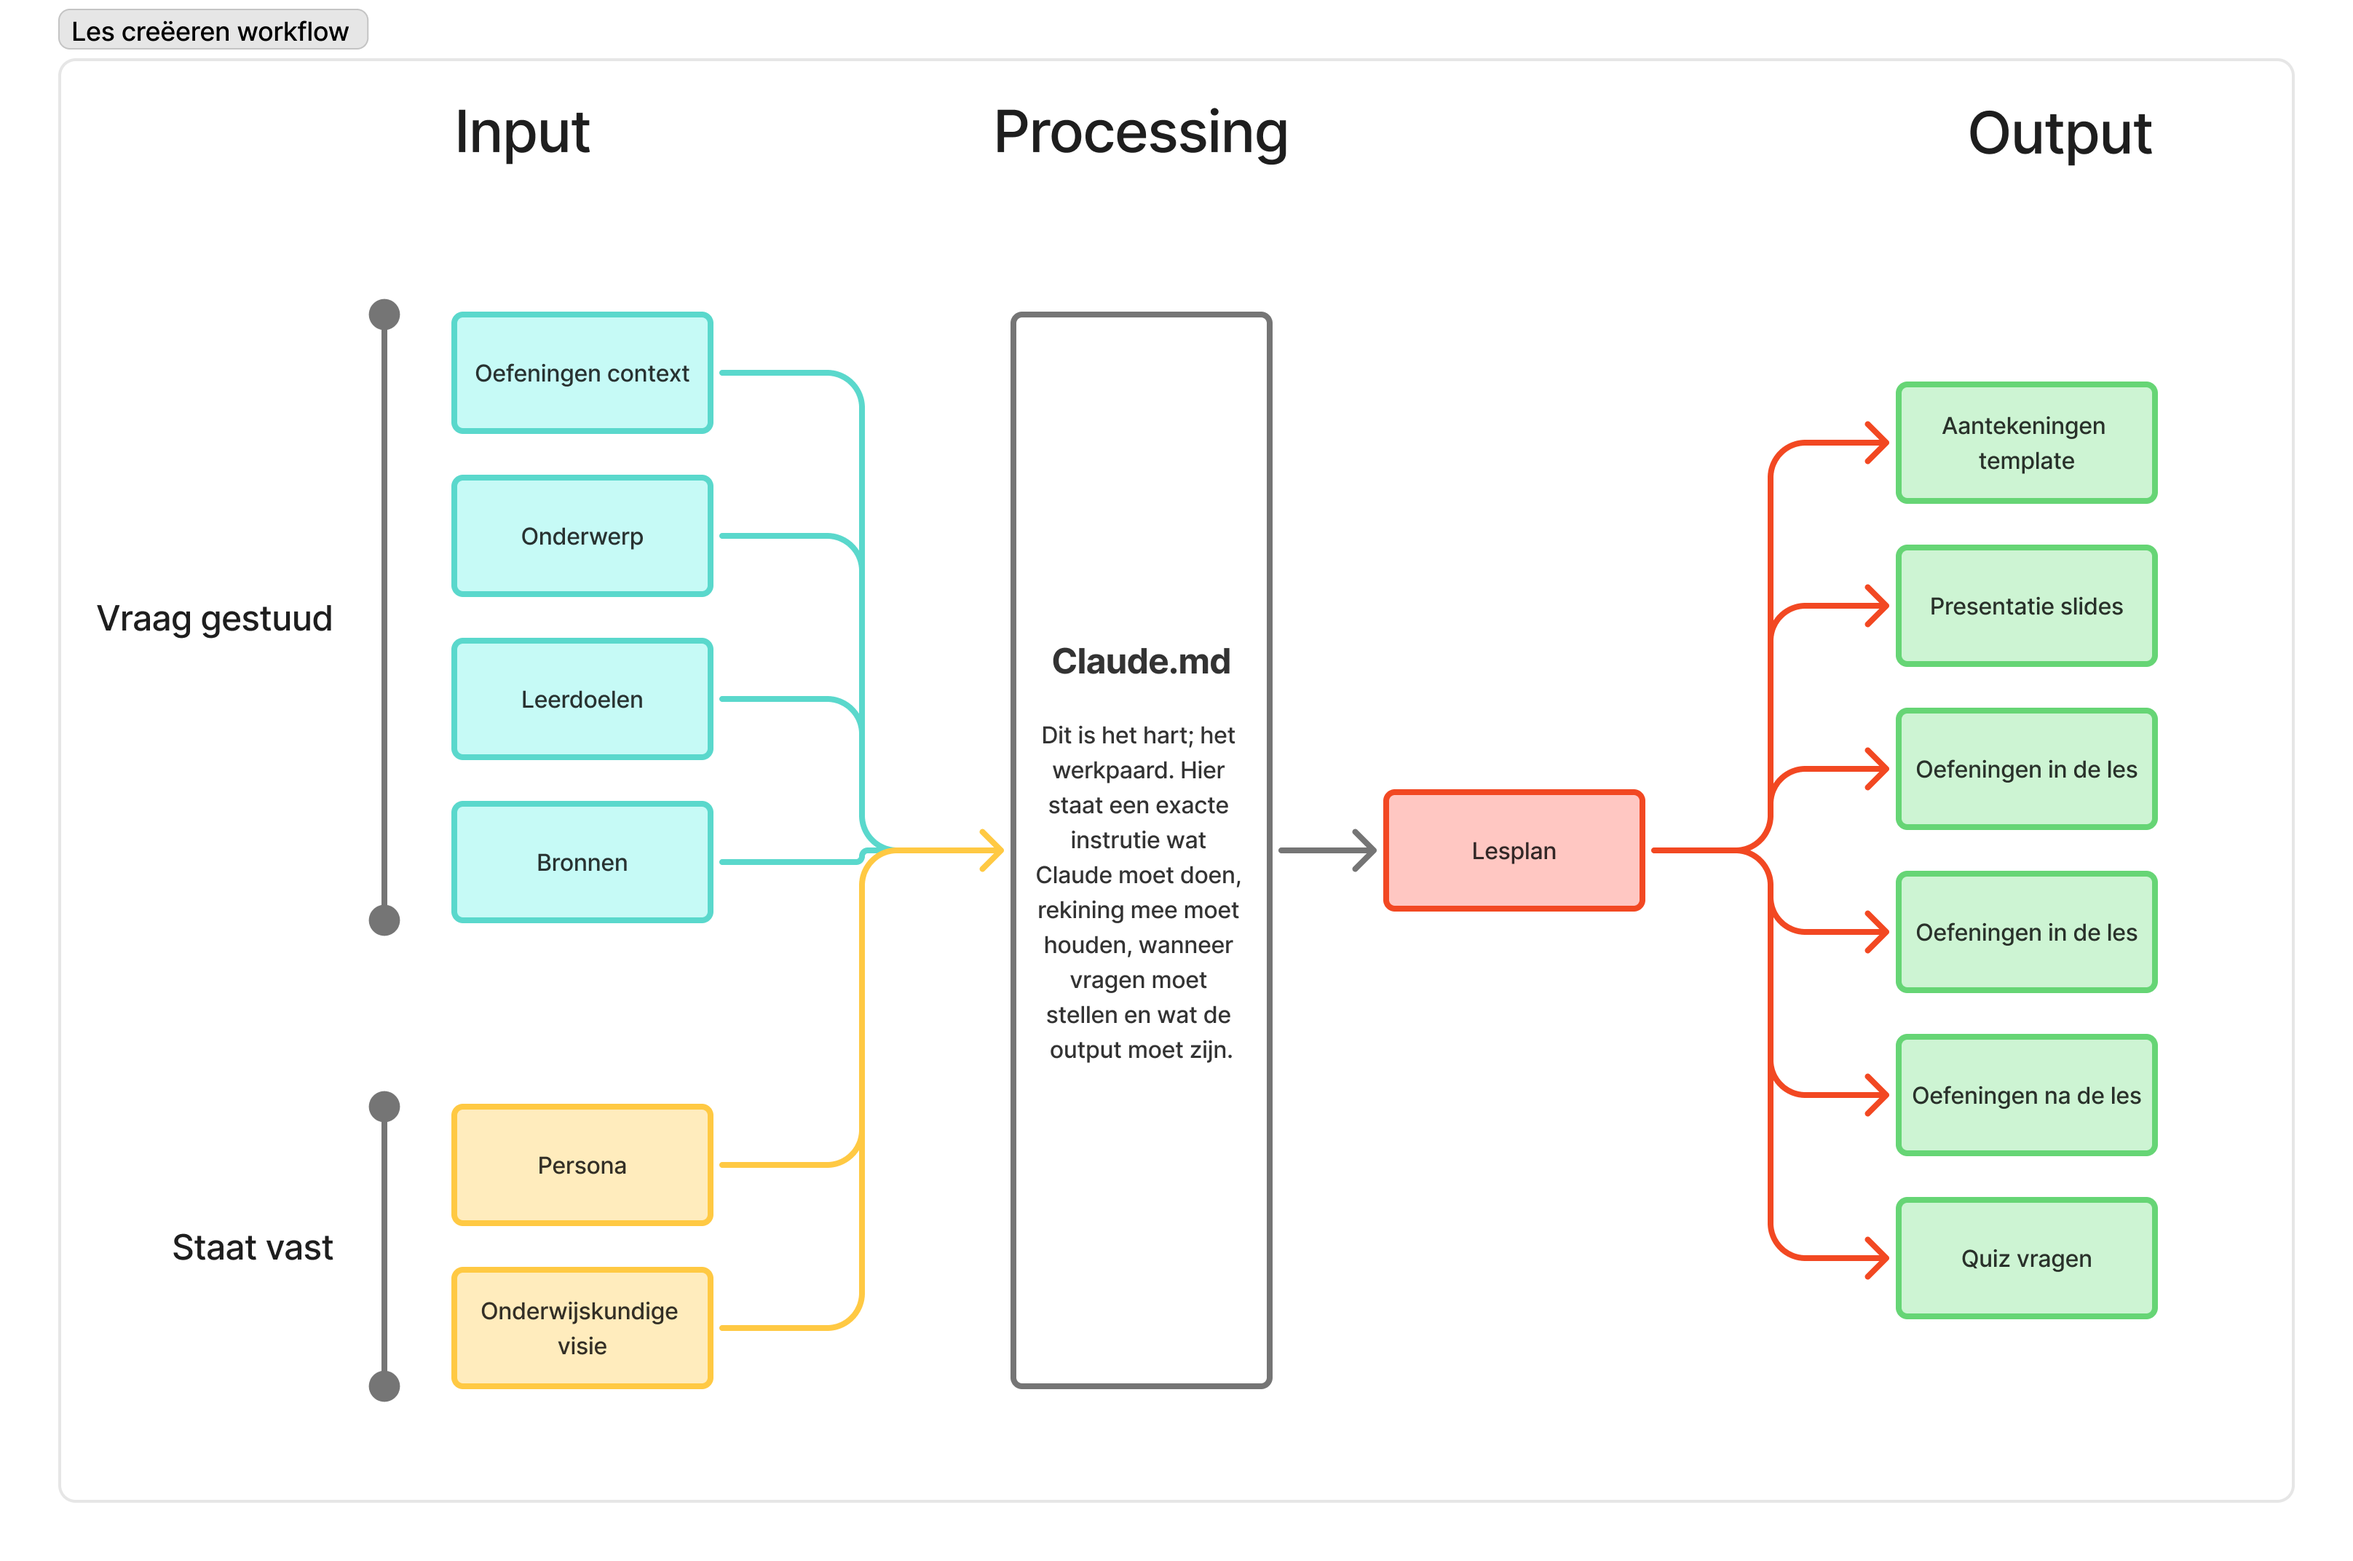
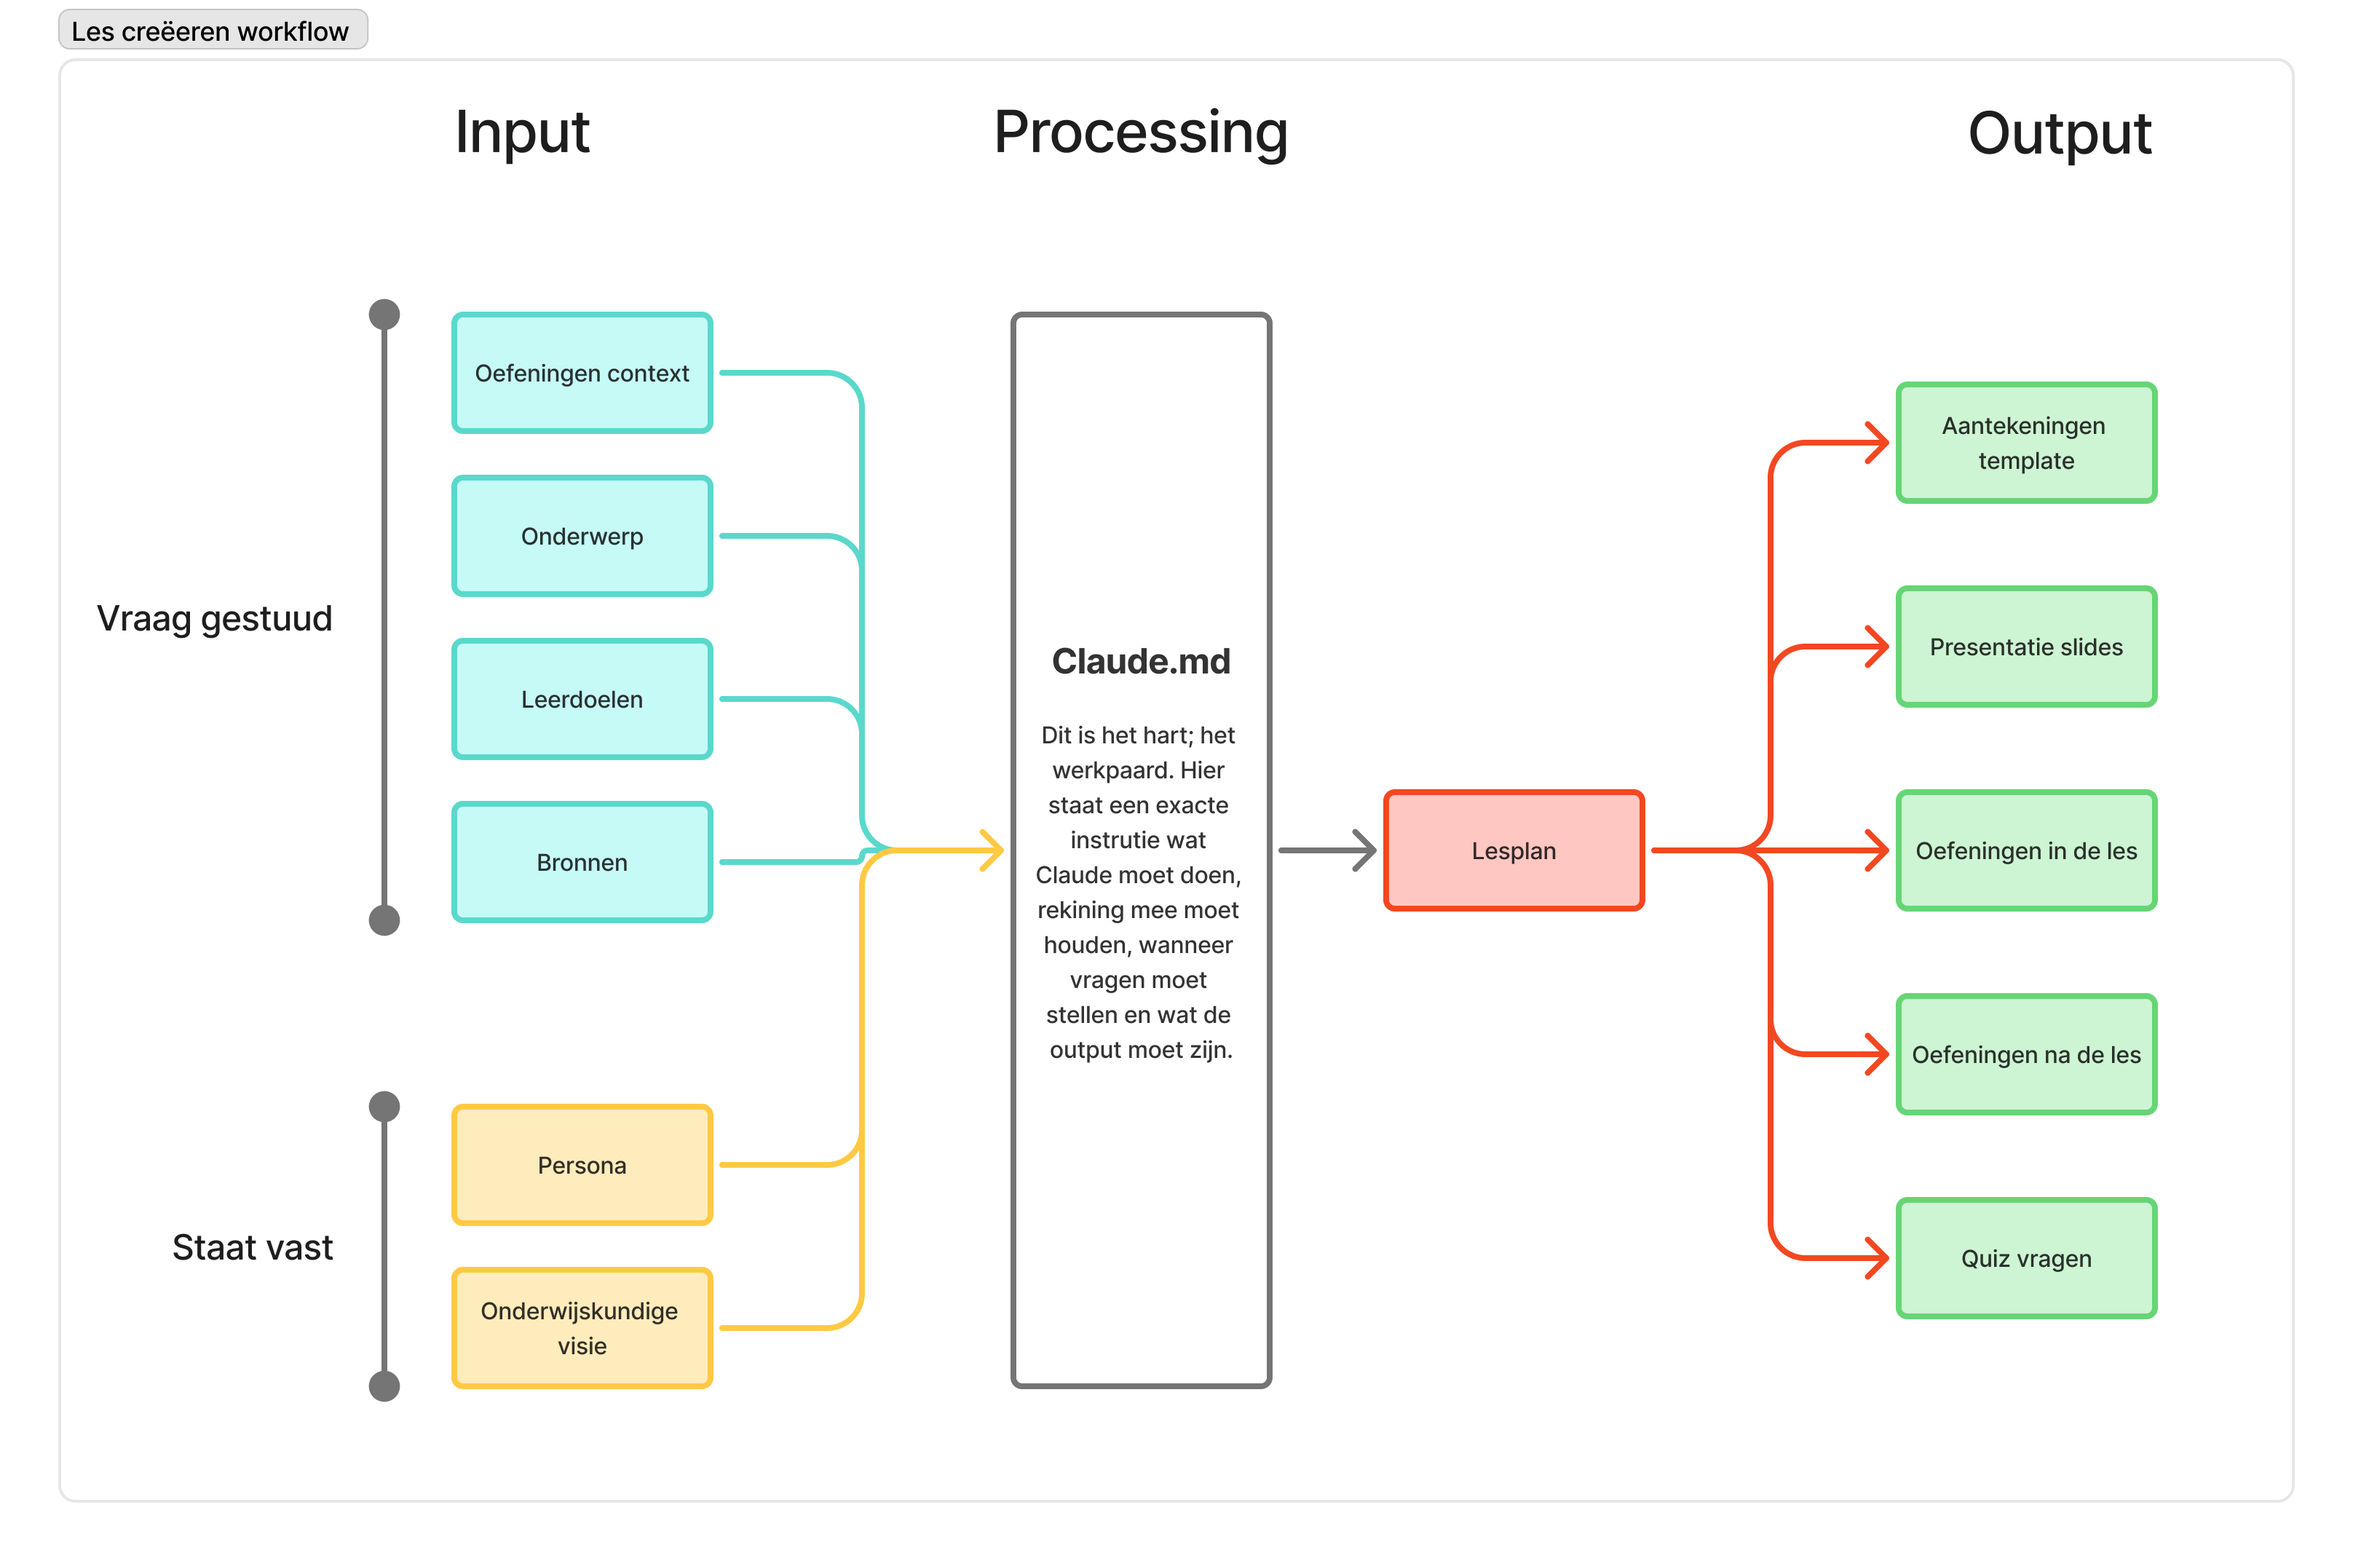
reorganised files so it follows the standards

Changed region(s): [[0.75, 0.3438, 0.9375, 0.75]]

diff --git a/claude.md b/claude.md
@@ -40,7 +40,7 @@ Ask the user:
 > - File paths to documents in this project folder
 > - General references (books, papers) I should be aware of
 >
-> Leave blank to rely only on the educational_context.MD and my general knowledge."
+> Leave blank to rely only on the `.claude/context/educational_context.md` and my general knowledge."
 
 Fetch or read all provided sources before proceeding.
 
@@ -52,9 +52,9 @@ Create a folder: `lessons/<topic-slug>/`
 
 Create the file: `lessons/<topic-slug>/lesson.md`
 
-Structure the lesson following the Bain-inspired principles from `educational_context.MD`.
+Structure the lesson following the Bain-inspired principles from `.claude/context/educational_context.md`.
 
-**Persona-aware design:** Read `persona.md` before writing the lesson plan. For each major section, consider how the three student archetypes (Lars / HAVO, Fatima / MBO, Daan / non-traditional) will experience it. Specifically:
+**Persona-aware design:** Read `.claude/context/persona.md` before writing the lesson plan. For each major section, consider how the three student archetypes (Lars / HAVO, Fatima / MBO, Daan / non-traditional) will experience it. Specifically:
 
 - **Opening:** Choose a problem that feels relevant to Fatima's practical experience AND intriguing enough to engage Daan's curiosity. Add a brief note on how to make it land for Lars too (e.g., a concrete anchor or worked example).
 - **Prior Knowledge Check:** Anticipate that Lars may lack practical reference points, Fatima may have misconceptions from applied shortcuts, and Daan may have gaps in foundational theory.
@@ -159,7 +159,7 @@ Create the file: `lessons/<topic-slug>/quiz.md`
 
 Write exactly **4 quiz questions** students can use to self-assess whether they understood the lesson. The questions are low-stakes and formative — meant to help students identify gaps, not to grade them.
 
-**Persona-aware design:** The 4 questions should collectively serve all three archetypes from `persona.md`:
+**Persona-aware design:** The 4 questions should collectively serve all three archetypes from `.claude/context/persona.md`:
 
 - **Q1 — Recall (Lars-focused):** A straightforward question that confirms whether the student grasped the central concept. Clear, unambiguous, no tricks. Gives Lars a confidence anchor.
 - **Q2 — Application (Fatima-focused):** A short scenario or practical case where the student must apply the concept. Rewards Fatima's practical intuition and gives Lars a concrete reference point.
@@ -340,7 +340,7 @@ Confirm with the user when all files are ready:
 
 ## Educational Principles (Reference)
 
-All lesson content should reflect the principles in `educational_context.MD`:
+All lesson content should reflect the principles in `.claude/context/educational_context.md`:
 
 | Principle                 | Application                                        |
 | ------------------------- | -------------------------------------------------- |

diff --git a/.claude/skills/create-lesson/SKILL.md b/.claude/skills/create-lesson/SKILL.md
@@ -1,0 +1,19 @@
+---
+name: create-lesson
+description: Start the full lesson creation workflow (8 steps)
+disable-model-invocation: true
+argument-hint: "[topic] (optional)"
+---
+
+Start the lesson creation workflow defined in CLAUDE.md. Follow all 8 steps in order:
+
+1. Ask for the topic (skip if $ARGUMENTS is provided — use it as the topic)
+2. Ask for sources
+3. Create the lesson plan (`lesson.md`), reading `.claude/context/persona.md` and `.claude/context/educational_context.md` first
+4. Ask for exercise context
+5. Create exercises (`exercises.md`) and model answers (`answers.md`)
+6. Create quiz questions (`quiz.md`), persona-aware
+7. Create MARP slides (`slides.md`) and render to PDF
+8. Create student notes template (`notes-template.md`)
+
+Wait for user approval after Step 3 before continuing. Confirm completion after Step 8.
